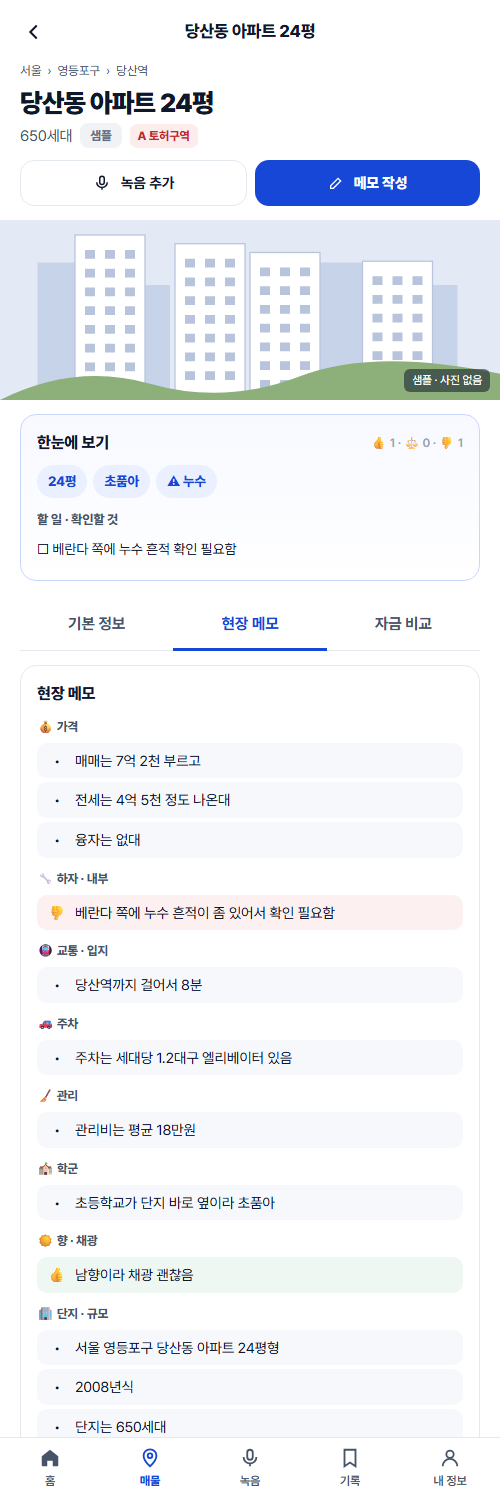
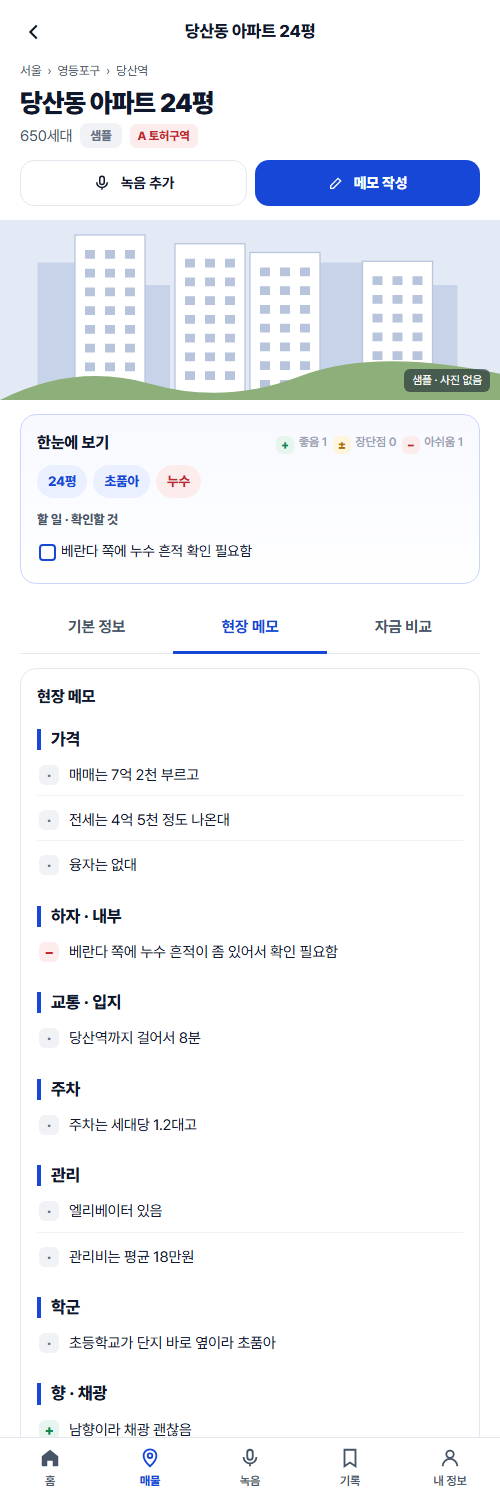
집노트: 이모지 제거(+ − ± 표시), 주제 제목 크게

diff --git a/app/index.html b/app/index.html
@@ -179,11 +179,19 @@ textarea.edit:focus,input.field:focus{outline:none;border-color:var(--blue)}
 .glance{margin-top:14px;border-color:var(--blue-line);background:linear-gradient(180deg,#F7F9FF,#fff)}
 .htags{display:flex;flex-wrap:wrap;gap:6px}
 .htag{font-size:13.5px;font-weight:800;padding:6px 11px;border-radius:999px;background:var(--blue-soft);color:var(--blue)}
-ul.todo{list-style:none;margin:6px 0 0;padding:0;font-size:14px} ul.todo li{padding:4px 0;color:var(--ink)}
-ul.olist{list-style:none;margin:6px 0 0;padding:0}
-ul.olist li{display:flex;gap:8px;align-items:flex-start;padding:7px 10px;border-radius:10px;margin:4px 0;font-size:14.5px;line-height:1.5;background:var(--soft)}
-ul.olist li.pos{background:#EEF7F1} ul.olist li.neg{background:#FDF0F0} ul.olist li.mix{background:#FFF7E6}
-ul.olist .mi{flex:none;width:20px;text-align:center}
+.htag.warn{background:var(--bad-bg);color:var(--bad)}
+ul.todo{list-style:none;margin:6px 0 0;padding:0;font-size:14.5px}
+ul.todo li{position:relative;padding:5px 0 5px 24px;color:var(--ink)}
+ul.todo li::before{content:"";position:absolute;left:2px;top:9px;width:13px;height:13px;border:2px solid var(--blue);border-radius:4px}
+.memo .lab{font-size:17px;font-weight:800;color:var(--ink);margin:20px 0 6px;padding-left:10px;border-left:4px solid var(--blue);line-height:1.25}
+.memo .lab:first-of-type{margin-top:6px}
+ul.olist{list-style:none;margin:0;padding:0}
+ul.olist li{display:flex;gap:10px;align-items:flex-start;padding:8px 2px;border-bottom:1px solid var(--line2);font-size:15px;line-height:1.55}
+ul.olist li:last-child{border-bottom:0}
+.mi,.mk{flex:none;display:inline-grid;place-items:center;width:20px;height:20px;margin-top:1px;border-radius:6px;font-size:14px;font-weight:900;line-height:1;background:var(--na-bg);color:var(--na)}
+.mk{width:18px;height:18px;font-size:12px;vertical-align:-3px;margin:0 2px 0 0}
+li.neu .mi{background:transparent;color:var(--muted);font-size:18px}
+li.pos .mi,.mk.pos{background:var(--ok-bg);color:var(--ok)} li.neg .mi,.mk.neg{background:var(--bad-bg);color:var(--bad)} li.mix .mi,.mk.mix{background:var(--warn-bg);color:var(--warn)}
 
 /* 기록·내 정보 */
 .optgrid{display:flex;flex-wrap:wrap;gap:8px;margin-top:8px}
@@ -468,14 +476,14 @@ function detail(id, q){
   const li = arr => arr.map(x=>`<li>${esc(x)}</li>`).join('');
   const sec = (lab, arr) => arr && arr.length ? `<div class="lab">${lab}</div><ul>${li([...new Set(arr)])}</ul>` : '';
   const org = p.transcript ? ZipEngine.organize(ZipEngine.fixSTT(p.transcript), p.complex_name || p.custom_name) : null;
-  const MOOD = {pos:['👍','좋음'], neg:['👎','아쉬움'], mix:['⚖','장단점'], neu:['•','']};
+  const MOOD = {pos:['+','좋음'], neg:['−','아쉬움'], mix:['±','장단점'], neu:['·','']};
   let memoBody;
-  if (a) memoBody = `${v.summary?`<p class="sum">${esc(v.summary)}</p>`:''}${sec('👍 좋았던 점', v.pros)}${sec('👎 아쉬운 점', v.cons)}${sec('🔧 하자 · 수리', v.defects)}${sec('🏢 관리 상태', v.management)}${sec('📍 입지', v.location)}
+  if (a) memoBody = `${v.summary?`<p class="sum">${esc(v.summary)}</p>`:''}${sec('좋았던 점', v.pros)}${sec('아쉬운 점', v.cons)}${sec('하자 · 수리', v.defects)}${sec('관리 상태', v.management)}${sec('입지', v.location)}
     ${(v.to_check||[]).length?`<div class="lab">다시 확인할 것</div><div class="tags">${v.to_check.map(x=>`<span class="tag">${esc(x)}</span>`).join('')}</div>`:''}`;
   else if (org && org.sections.length) memoBody = org.sections.map(s => `<div class="lab">${s.label}</div><ul class="olist">${s.items.map(i =>
       `<li class="${i.mood}"><span class="mi" aria-label="${MOOD[i.mood][1]}">${MOOD[i.mood][0]}</span><span>${esc(i.text)}</span></li>`).join('')}</ul>`).join('');
-  else memoBody = `${sec('🔧 하자 · 수리', p.defects)}${sec('📍 입지 · 관리', [p.commercial, p.middle_high, p.mgmt_office, p.elementary].filter(Boolean))}${sec('❓ 헷갈린 부분', p.uncertain)}`;
-  if (p.memo) memoBody = `<div class="lab">✍ 내 메모</div><p class="sum" style="white-space:pre-wrap">${esc(p.memo)}</p>` + memoBody;
+  else memoBody = `${sec('하자 · 수리', p.defects)}${sec('입지 · 관리', [p.commercial, p.middle_high, p.mgmt_office, p.elementary].filter(Boolean))}${sec('헷갈린 부분', p.uncertain)}`;
+  if (p.memo) memoBody = `<div class="lab">내 메모</div><p class="sum" style="white-space:pre-wrap">${esc(p.memo)}</p>` + memoBody;
   if (!memoBody.trim()) memoBody = `<div class="empty" style="padding:10px">${p.visit==='planned'?'방문 후 녹음하거나 메모를 남겨 주세요.':'정리된 메모가 없어요.'}</div>`;
   const memo = `<section class="card pane memo ${tab==='memo'?'on':''}"><div class="cardhd">현장 메모 ${p.sample?'':`<button class="edit-btn" data-act="memo" data-id="${p.id}">${I.pen} 편집</button>`}</div>${memoBody}</section>`;
 
@@ -496,11 +504,11 @@ function detail(id, q){
   const tags = a ? [] : (org ? org.tags : []);
   const todos = (a ? (v.to_check||[]) : (org ? org.todos : [])).concat(missing(p).filter(x=>['매매가','전세가'].includes(x)).map(x=>`${x} 확인`));
   const cnt = org ? org.counts : null;
-  const summary = (p.visit==='planned' && !p.transcript) ? '' : `<section class="card glance"><div class="cardhd">한눈에 보기 ${cnt&&!a?`<span class="src">👍 ${cnt.pos} · ⚖ ${cnt.mix} · 👎 ${cnt.neg}</span>`:''}</div>
+  const summary = (p.visit==='planned' && !p.transcript) ? '' : `<section class="card glance"><div class="cardhd">한눈에 보기 ${cnt&&!a?`<span class="src"><b class="mk pos">+</b> 좋음 ${cnt.pos} &nbsp;<b class="mk mix">±</b> 장단점 ${cnt.mix} &nbsp;<b class="mk neg">−</b> 아쉬움 ${cnt.neg}</span>`:''}</div>
     ${a && v.summary ? `<p class="sum" style="margin:0">${esc(v.summary)}</p>` : ''}
-    ${tags.length?`<div class="htags">${tags.map(t=>`<span class="htag">${esc(t)}</span>`).join('')}</div>`:''}
+    ${tags.length?`<div class="htags">${tags.map(t=>t[0]==='!'?`<span class="htag warn">${esc(t.slice(1))}</span>`:`<span class="htag">${esc(t)}</span>`).join('')}</div>`:''}
     ${!a && !tags.length ? '<p class="small muted" style="margin:0">녹음에서 뽑을 핵심 키워드가 없었어요. 단지 이름·역·평형·좋았던 점을 말해 보세요.</p>' : ''}
-    ${todos.length?`<div class="lab2" style="margin-top:12px">할 일 · 확인할 것</div><ul class="todo">${[...new Set(todos)].map(x=>`<li>☐ ${esc(x)}</li>`).join('')}</ul>`:''}
+    ${todos.length?`<div class="lab2" style="margin-top:12px">할 일 · 확인할 것</div><ul class="todo">${[...new Set(todos)].map(x=>`<li>${esc(x)}</li>`).join('')}</ul>`:''}
     ${p.status==='analyzing'?`<div class="row small" style="margin-top:10px;color:var(--blue)"><div class="spinner" style="width:18px;height:18px;border-width:3px;margin:0"></div>${esc(p.step||'자동 정리 중')}</div>`:''}
     ${p.status==='error'?`<p class="small" style="color:var(--bad);margin:10px 0 0">자동 정리 실패: ${esc(p.error)}</p>`:''}</section>`;
   const aiCard = '';
@@ -513,8 +521,8 @@ function detail(id, q){
     <div class="dact"><button class="btn line" data-act="rec" data-target="${p.sample?'':p.id}">${I.mic.replace('class="ic"','class="ic" style="width:18px;height:18px"')} 녹음 추가</button>
       <button class="btn" data-act="memo" data-id="${p.id}">${I.pen} 메모 작성</button></div></div>
   <div class="hero">${heroOf(p)}</div>
-  ${p.sample?'':`<div class="photobar"><label class="chip">📷 사진 추가<input type="file" accept="image/*" multiple hidden data-addphoto="${p.id}"></label>
-    <a class="chip" href="https://search.naver.com/search.naver?where=image&query=${encodeURIComponent((c.name||nameOf(p))+' 아파트')}" target="_blank" rel="noopener">🔎 단지 사진 보기</a></div>`}
+  ${p.sample?'':`<div class="photobar"><label class="chip">사진 추가<input type="file" accept="image/*" multiple hidden data-addphoto="${p.id}"></label>
+    <a class="chip" href="https://search.naver.com/search.naver?where=image&query=${encodeURIComponent((c.name||nameOf(p))+' 아파트')}" target="_blank" rel="noopener">단지 사진 보기</a></div>`}
   ${summary}
   <div class="dtabs">${[['info','기본 정보'],['memo','현장 메모'],['fund','자금 비교']].map(([k,t])=>`<button class="${k===tab?'on':''}" data-tab="${k}">${t}</button>`).join('')}</div>
   <div class="cols">${info}${memo}${fund}</div>

diff --git a/app/engine.js b/app/engine.js
@@ -244,15 +244,15 @@
     [/(많|넓|좁|작|높|낮|싸|않|나쁘지 않)(고|다|아|네)$/, '$1음'], [/크(고|다)$/, '큼'],
   ];
   const CATS = [
-    ['price',  '💰 가격',      /억|매매|전세|월세|시세|호가|가격|융자|대출/],
-    ['defect', '🔧 하자 · 내부', /누수|곰팡이|균열|금\s?간|결로|하자|수리|녹물|깨진|낡|리모델링|인테리어|공사|방음|소음|층간|내부|구조|화장실|방이|거실|주방|베란다|샷시|창호/],
-    ['traffic','🚇 교통 · 입지', /역|호선|지하철|버스|출퇴근|직장|도보|걸어서|여의도|강남|광화문|판교|입지|위치/],
-    ['parking','🚗 주차',      /주차/],
-    ['manage', '🧹 관리',      /관리|경비|청소|조경|커뮤니티|엘리베이터|관리비/],
-    ['school', '🏫 학군',      /초등|중학교|고등학교|학교|학원|초품아|학군/],
-    ['life',   '🛒 생활 · 상권', /마트|상가|상권|편의점|시장|병원|공원|산책|카페|백화점|성당|교회|도서관|살기/],
-    ['view',   '☀ 향 · 채광',  /향|채광|햇빛|일조|뷰|조망|전망|밝/],
-    ['complex','🏢 단지 · 규모', /단지|세대|평|동\s?수|연식|년식|준공|오래된|신축|구축/],
+    ['price',  '가격',      /억|매매|전세|월세|시세|호가|가격|융자|대출/],
+    ['defect', '하자 · 내부', /누수|곰팡이|균열|금\s?간|결로|하자|수리|녹물|깨진|낡|리모델링|인테리어|공사|방음|소음|층간|내부|구조|화장실|방이|거실|주방|베란다|샷시|창호/],
+    ['traffic','교통 · 입지', /역|호선|지하철|버스|출퇴근|직장|도보|걸어서|여의도|강남|광화문|판교|입지|위치/],
+    ['parking','주차',      /주차/],
+    ['manage', '관리',      /관리|경비|청소|조경|커뮤니티|엘리베이터|관리비/],
+    ['school', '학군',      /초등|중학교|고등학교|학교|학원|초품아|학군/],
+    ['life',   '생활 · 상권', /마트|상가|상권|편의점|시장|병원|공원|산책|카페|백화점|성당|교회|도서관|살기/],
+    ['view',   '향 · 채광',  /향|채광|햇빛|일조|뷰|조망|전망|밝/],
+    ['complex','단지 · 규모', /단지|세대|평|동\s?수|연식|년식|준공|오래된|신축|구축/],
   ];
   const POS = /좋|괜찮|깔끔|넉넉|편리|편하|가까|저렴|무난|넓|조용|밝|최고|만족|장점|초역세권|역세권|대단지|여유|적당|훌륭|잘\s?돼|잘\s?되|쾌적|깨끗|새것|신축/;
   const NEG = /않|안\s?좋|별로|아쉽|불편|좁|비싸|시끄|어둡|낡|누수|곰팡이|균열|하자|부족|빡빡|멀|단점|걱정|문제|결로|오래돼|오래된|냄새|소음이|노후/;
@@ -296,7 +296,7 @@
     [/(여의도|강남|광화문|판교|종로)[^.]{0,12}(가깝|가까|직장|출퇴근)/, m => `${m[1]} 출퇴근`], [/조망|뷰가\s?좋/, () => '조망'],
     [/대규모|대단지/, () => '대단지'], [/([가-힣]{2,}초등학교)/, m => `${m[1]} 인근`], [/([가-힣]{2,}공원)/, m => `${m[1]} 인근`],
     [/상권[^.]{0,8}(좋|괜찮|나쁘지\s?않)/, () => '상권 양호'], [/살기[^.]{0,8}좋/, () => '살기 좋음'],
-    [/누수/, () => '⚠ 누수'], [/곰팡이/, () => '⚠ 곰팡이'], [/균열|금\s?간/, () => '⚠ 균열'], [/결로/, () => '⚠ 결로'], [/깨진|파손/, () => '⚠ 파손'],
+    [/누수/, () => '!누수'], [/곰팡이/, () => '!곰팡이'], [/균열|금\s?간/, () => '!균열'], [/결로/, () => '!결로'], [/깨진|파손/, () => '!파손'],
   ];
   const polarityText = s => s.replace(/나쁘지\s?않/g, '괜찮').replace(/(넉넉|넓|크)지\s?않/g, '부족');
   function organize(text, name) {
@@ -314,7 +314,7 @@
       // "지금 OO 아파트에 와 있음" 같은 도입부는 뺀다
       const nameRe = name ? new RegExp(name.replace(/\s/g, '').split('').join('\\s?')) : null;
       if (nameRe && nameRe.test(line) && /(와\s?있|왔|임장하러|보러)/.test(line) && !/평|세대|역|단지가|좋|별로/.test(line.replace(nameRe, ''))) continue;
-      const cat = (CATS.find(([, , re]) => re.test(raw)) || ['etc', '📝 기타'])[0];
+      const cat = (CATS.find(([, , re]) => re.test(raw)) || ['etc', '기타'])[0];
       const pt = polarityText(raw), pos = POS.test(pt), neg = NEG.test(pt);
       const mood = pos && neg ? 'mix' : neg ? 'neg' : pos ? 'pos' : 'neu';
       (groups[cat] = groups[cat] || []).push({ text: line, mood });
@@ -323,7 +323,7 @@
     for (const [re, fmt] of TAGS) { const m = text.match(re); if (m) { const t = fmt(m); if (!tags.includes(t) && !(t === '역세권' && tags.includes('초역세권'))) tags.push(t); } }
     const all = Object.values(groups).flat();
     const pos = all.filter(x => x.mood === 'pos').length, neg = all.filter(x => x.mood === 'neg').length, mix = all.filter(x => x.mood === 'mix').length;
-    const sections = CATS.concat([['etc', '📝 기타']]).filter(([k]) => groups[k]).map(([k, label]) => ({ key: k, label, items: groups[k] }));
+    const sections = CATS.concat([['etc', '기타']]).filter(([k]) => groups[k]).map(([k, label]) => ({ key: k, label, items: groups[k] }));
     return { sections, tags, todos, counts: { pos, neg, mix }, lines: all.length };
   }
 
